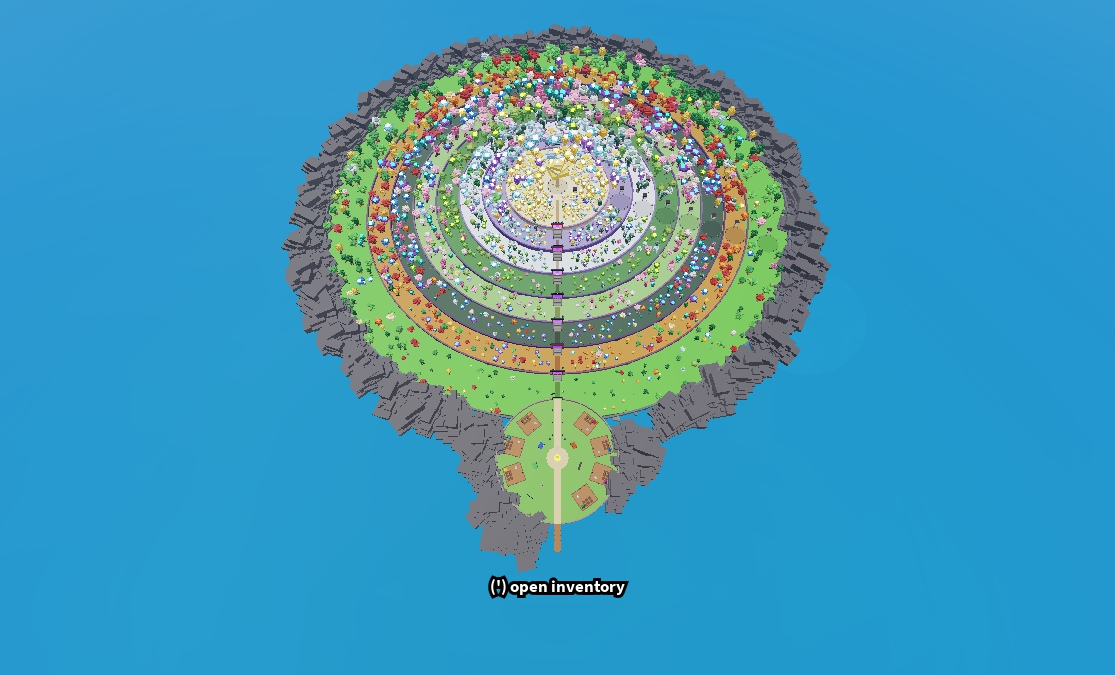
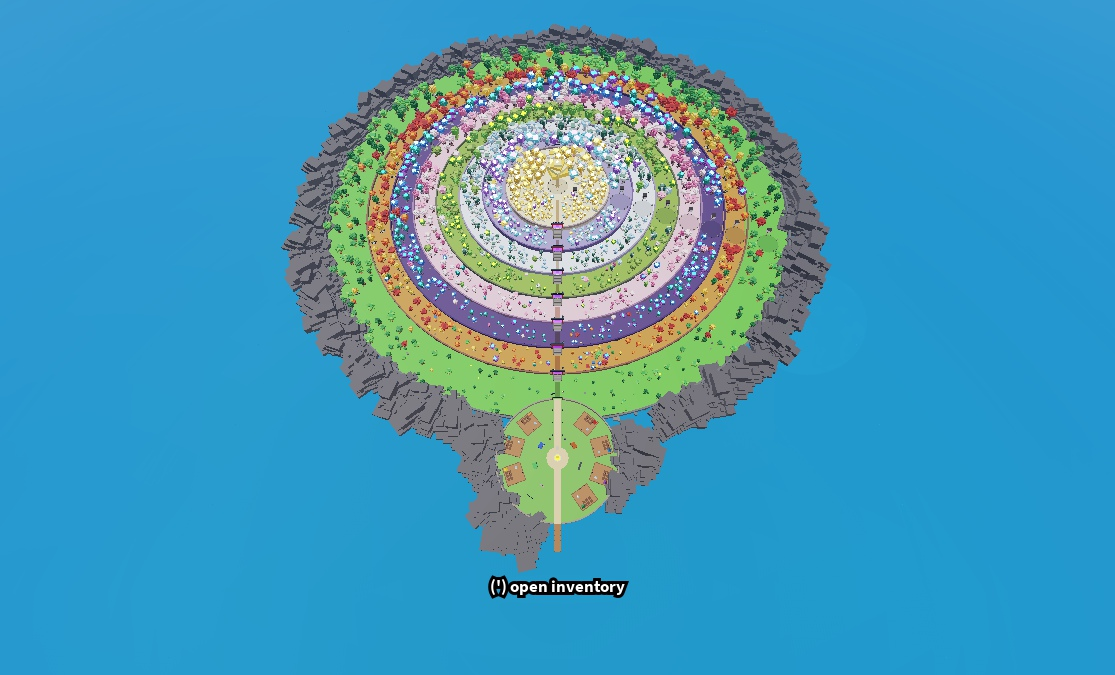
feat(map): zone-readable tree mix, ring floor palettes and taller mountains
Map review rounds 1-2 (46 -> 53/100):
- TreeKit look mix 85/15 own/neighbour zone; 1,187 trees rebuilt in place
  (stats still follow each tree's Zone attribute).
- Glowcap Bog (dark teal), Sakura (pink) and Thunder Bamboo (bamboo green)
  floors; trail, boss floor and RotHedge follow each ring's floor colour.
- Mountains scaled x8-12 (back row x1.6) and alternate two greys.

Play: 1,470 trees registered, every Trunk collidable, console clean.

Changed region(s): [[0.2744, 0.0622, 0.7013, 0.56], [0.6404, 0.4978, 0.6709, 0.5289]]

diff --git a/docs/HANDOFF.md b/docs/HANDOFF.md
@@ -10,7 +10,7 @@
 - **คำเตือน:** โมเดลหิน/ต้นไม้ "studded" ที่เป็นของ reupload ใน Creator Store หลายตัวแฝง backdoor `LightConfig`/`Package` ไว้ใต้ `Weld` (ปลอมเป็นโค้ดของ Quenty). ต้องลบสคริปต์ทั้งหมดก่อนใช้ (ทำแบบ AssetPrototypes).
 - เสียง: `ZoneAmbience` เปิดเพลง APM "Time On Our Hands" 9039992866 วนตลอด (Sound ชื่อ `music`, ปุ่ม Music ปิดได้; เสียงฟัน/ล้มชื่อ `sfxChop`/`sfxFall`). `ForestController` เล่นเสียงฟัน 9120950231 ทุก TreeHit และเสียงต้นไม้ล้ม 9120796401 ตอน `hit.dead` (Pro Sound Effects). ตรวจใน Studio: ทั้ง 3 id โหลดได้, เพลงเล่นใน Play, console ไม่มี error. **ยังไม่ได้ตรวจ:** ฟังด้วยหู.
 - ต้นไม้ทั้งหมด (1,470) เปลี่ยนเป็นทรง Kako9's Tree ตามที่ ArmZ สั่ง: `TreeKit` สร้างจากโค้ด 17 parts, 24 แบบ = 8 โซน × 3 ชุดสี + ทรง Classic/Tall/Wide (key ใหม่ เช่น MeadowOak, BogViolet ... อัปเดต `Zones.treePools` แล้ว). เปลี่ยน**ในที่เดิม** (ตำแหน่ง/tier/tag/attribute/RotVein เดิม) ไม่ได้ BuildZone ใหม่ — ถ้า BuildZone ใหม่ภายหลัง ลำดับ rng เปลี่ยน ตำแหน่งต้นไม้/รัง/หีบจะต่างจากเดิม. Map parts รวม 33,662 (ต้นไม้ +~17k) — ถ้ามือถือกระตุกให้ตัด root slab ก่อน.
-- ตรวจภาพแบบ .md §0.5 (subagent ใหม่ไม่เห็นโค้ด): รอบ 1 ได้ 46/100 → แก้ studs ทุกด้านของต้นไม้ + ภูเขา 2 แถวทุกช่อง. ข้อที่เหลือเป็นการตัดสินใจออกแบบ (สัดส่วนผสมต้นไม้ 55/30/15, สีพื้น/ขอบวง, ความหนาแน่น, ลานบอส, แสง) รอ ArmZ — [verification/map_report.md](../verification/map_report.md).
+- ตรวจภาพแบบ .md §0.5 (subagent ใหม่ไม่เห็นโค้ด): รอบ 1 ได้ 46/100 → แก้ studs ทุกด้านของต้นไม้ + ภูเขา 2 แถวทุกช่อง. ต่อมา (ArmZ สั่งทำต่อ): หน้าตาต้นไม้ผสม 85/15 โซนตัวเอง/ข้างเคียง (เปลี่ยนในที่เดิม 1,187 ต้น, หน้าตาตรงโซน 1,279/1,470), พื้นบึงเห็ดม่วง/ซากุระชมพู/ไผ่เขียวอ่อน + Trail/พื้นลานบอส/RotHedge ตามสีพื้นแต่ละวง; Play: ต้นไม้ 1,470 ลงทะเบียนครบ, Trunk ชนได้ทุกต้น, console สะอาด. รอบ 2 ได้ 53/100 → ภูเขาสูงขึ้น (×8–12, แถวหลัง ×1.6) สลับสองเทา, พื้นบึงเห็ดเขียวอมฟ้าเข้ม (45,90,85) ไม่ซ้ำกับคริสตัล. ไม่ทำ: ลดความหนาแน่น 40% (ชนกฎ ≥140 ต้น/โซน + สมดุลเศรษฐกิจ), แสง (WeatherController/DayCycle เป็นเจ้าของ), ตกแต่งลานบอส/จัด hub ใหม่ — [verification/map_report.md](../verification/map_report.md).
 - Regression หลังเปลี่ยนต้นไม้: Phase2 **23/23** (restored=true), Phase7 **24/24** (รวมตัดต้นโซน 3 จริง = เสียงฟัน/ล้มรันโดยไม่มี error), ValidateRoutes 263 จุด 0 ปัญหา, tag เท่าเดิม (Tree 1470, ChestSpot 80, Nest 16 ...), console สะอาด. หมายเหตุ: รัน Phase7 ต่อจาก Phase2 ทันทีจะตกข้อ "collidable Trunk" เพราะต้นที่ Phase2 ตัดยังไม่เกิดใหม่ (15 วิ) — รันแยกรอบ.
 
 ## Regression รอบสุดท้าย (บางส่วน) บนเกาะใหม่ + Sword Pack (2026-10-03)

diff --git a/docs/systems.md b/docs/systems.md
@@ -9,7 +9,7 @@
 
 - PlaceId 93479990217075; GameId 10768831527. **เกาะวงกลม 8 วง (2026-10-02)**: ศูนย์ (0,0), ใต้ = +Z; วง `inner/outer/y` อยู่ใน `Config.Zones` (1 Meadow 740–900 y4 → 7 Crystal 200–290 y64, 8 Lumora ที่ราบ r200 y78). Hub Rootfall = `Zones.Hub` (0,4,1010) r190 นอกโซน. ทั้ง 8 built=true.
 - ตำแหน่งโซนอ่านผ่าน `Zones.At(pos)` ที่เดียว (RunService.ZoneAt + ZoneAmbience); ห้ามคำนวณ footprint เอง. Merchant.Position อยู่ใน hub (36,0,1072).
-- MapBuilder (`tools/map/MapBuilder.luau`, Studio `ServerStorage.MapTools`) + `TreeKit.luau` (ทรง Kako9's Tree สร้างจากโค้ด 17 parts, 24 แบบ = 8 โซน × 3 ชุดสี/ทรง Classic-Tall-Wide + rot veins 3 ที่ tier 6; ผสม 55/30/15). Trunk = PrimaryPart/collider ที่มองเห็น. ทุกวงเข้าทางแกนใต้: บันไดขั้นละ ≤1 stud + torii ZoneGate (RotBarrier) + RotHedge สูง 8 บนขอบวงบน (ช่องเปิด ±19 พอดีเสา); หน้าผา 8–14 + hedge = กระโดดข้ามไม่ได้. Hub มีกำแพง 10 (ช่อง ForestGate เหนือ, ท่าเรือใต้), ชายฝั่ง CoastRock + `BuildMountains` (ภูเขา StuddedRock + กำแพงใส). MapAssets ใช้แค่ StuddedRock.
+- MapBuilder (`tools/map/MapBuilder.luau`, Studio `ServerStorage.MapTools`) + `TreeKit.luau` (ทรง Kako9's Tree สร้างจากโค้ด 17 parts, 24 แบบ = 8 โซน × 3 ชุดสี/ทรง Classic-Tall-Wide + rot veins 3 ที่ tier 6; ผสมหน้าตา 85/15 โซนตัวเอง/ข้างเคียง). Trunk = PrimaryPart/collider ที่มองเห็น. ทุกวงเข้าทางแกนใต้: บันไดขั้นละ ≤1 stud + torii ZoneGate (RotBarrier) + RotHedge สูง 8 บนขอบวงบน (ช่องเปิด ±19 พอดีเสา); หน้าผา 8–14 + hedge = กระโดดข้ามไม่ได้. Hub มีกำแพง 10 (ช่อง ForestGate เหนือ, ท่าเรือใต้), ชายฝั่ง CoastRock + `BuildMountains` (ภูเขา StuddedRock + กำแพงใส). MapAssets ใช้แค่ StuddedRock.
 - MCP เรียก require โมดูลเกมไม่ได้: Edit ใช้ `loadstring(MapBuilder.Source)()` (MapBuilder fallback เองสำหรับ Zones/TreeKit); Play server ไม่มี loadstring → ใช้ test Script ชั่วคราวใน ServerScriptService. หลัง BuildZone ต้องรัน `BuildZoneKeepers.luau` ซ้ำ.
 - ผลตรวจ 2026-10-02: tags ครบ (Tree 1470, ChestSpot 80, Nest 16, ZoneGate 7, WarpStone 9, ZoneSpawn 8, BossArena/Shrine 8, PlayerBase 7, GardenSlot 42, Shop 4, NPC 7, อื่น 1–2), Parts 10,127 (เดิม 18,103); ValidateRoutes Edit 263 samples/0, Play เดิน 16/16 routes; Zones.At ตรง tag 1598/1598; Play `Run.ZoneAt` 8/8 + hub=nil; leak probe ประตู 0. หลังเปลี่ยนภูมิประเทศตรวจใหม่ ไม่อ้างรายงานเดิมแทนผลใหม่.
 

diff --git a/verification/map_report.md b/verification/map_report.md
@@ -33,4 +33,11 @@ Applied after round 1 (only items inside this change):
 
 Not applied (design decisions for ArmZ): tree mix ratio (plan rule 55/30/15), ring floor/lip colours, tree density, boss arena dressing, hub layout, lighting technology, ring widths.
 
-Round 2 captures: `captures/round_2/` (not re-scored yet).
+## Round 2 — 2026-10-03 (after ArmZ said continue)
+
+Applied before capture: tree look mix 85/15 own/neighbour zone (1,187 trees rebuilt in place), Glowcap/Sakura/Bamboo floors in their palettes, Trail/boss floor/RotHedge follow each ring floor.
+Captures: `captures/round_2/`. Fresh verifier score **53/100** (layout 7, trees 6, zone identity 6, mountains 4, hub 6, clutter 4, player view 4, retro 6, scale 5, polish 5).
+
+Applied after round 2: mountains taller (front ×8–12, back ×1.6 → tops up to y≈89) and alternate two greys; Glowcap floor dark teal so it no longer matches Crystal Ridge's violet (`rings_34_after_fixes.jpg`).
+
+Still open (design/balance, ArmZ to decide): mountain stud scale (Roblox studs do not scale with part size), Tall/Wide canopies reading as mushrooms, accent caps on most canopies, ground props, ring-1 tree height vs avatar, hub layout/altar/props, lighting.

diff --git a/docs/map-systems.md b/docs/map-systems.md
@@ -48,7 +48,7 @@ Balance: no paid gates, no new prices/pass IDs and no rarity weight changes. Use
 | 8 | Lumora Plateau (SkyIsles key) | 0–200 / 78 | Boss + shrine 7 | LumoraGold, LumoraPearl, LumoraSun |
 | hub | Rootfall | (0,4,1010), r190 | Safe/free | None |
 
-All zone HP/drop multipliers are 1; rarity bonus 0; travel cost 0. Actual progression remains Balance's x100 per zone with Rebirth/AutoCut/friend/Pet/pass/boost seams. TreeKit retains its existing 55/30/15 themed/neighbour/other mix; pool metadata records the themed references. No extra economic curve.
+All zone HP/drop multipliers are 1; rarity bonus 0; travel cost 0. Actual progression remains Balance's x100 per zone with Rebirth/AutoCut/friend/Pet/pass/boost seams. TreeKit look mix is 85/15 themed/neighbour (2026-10-03 map review); pool metadata records the themed references. No extra economic curve.
 
 ## Data v3
 
